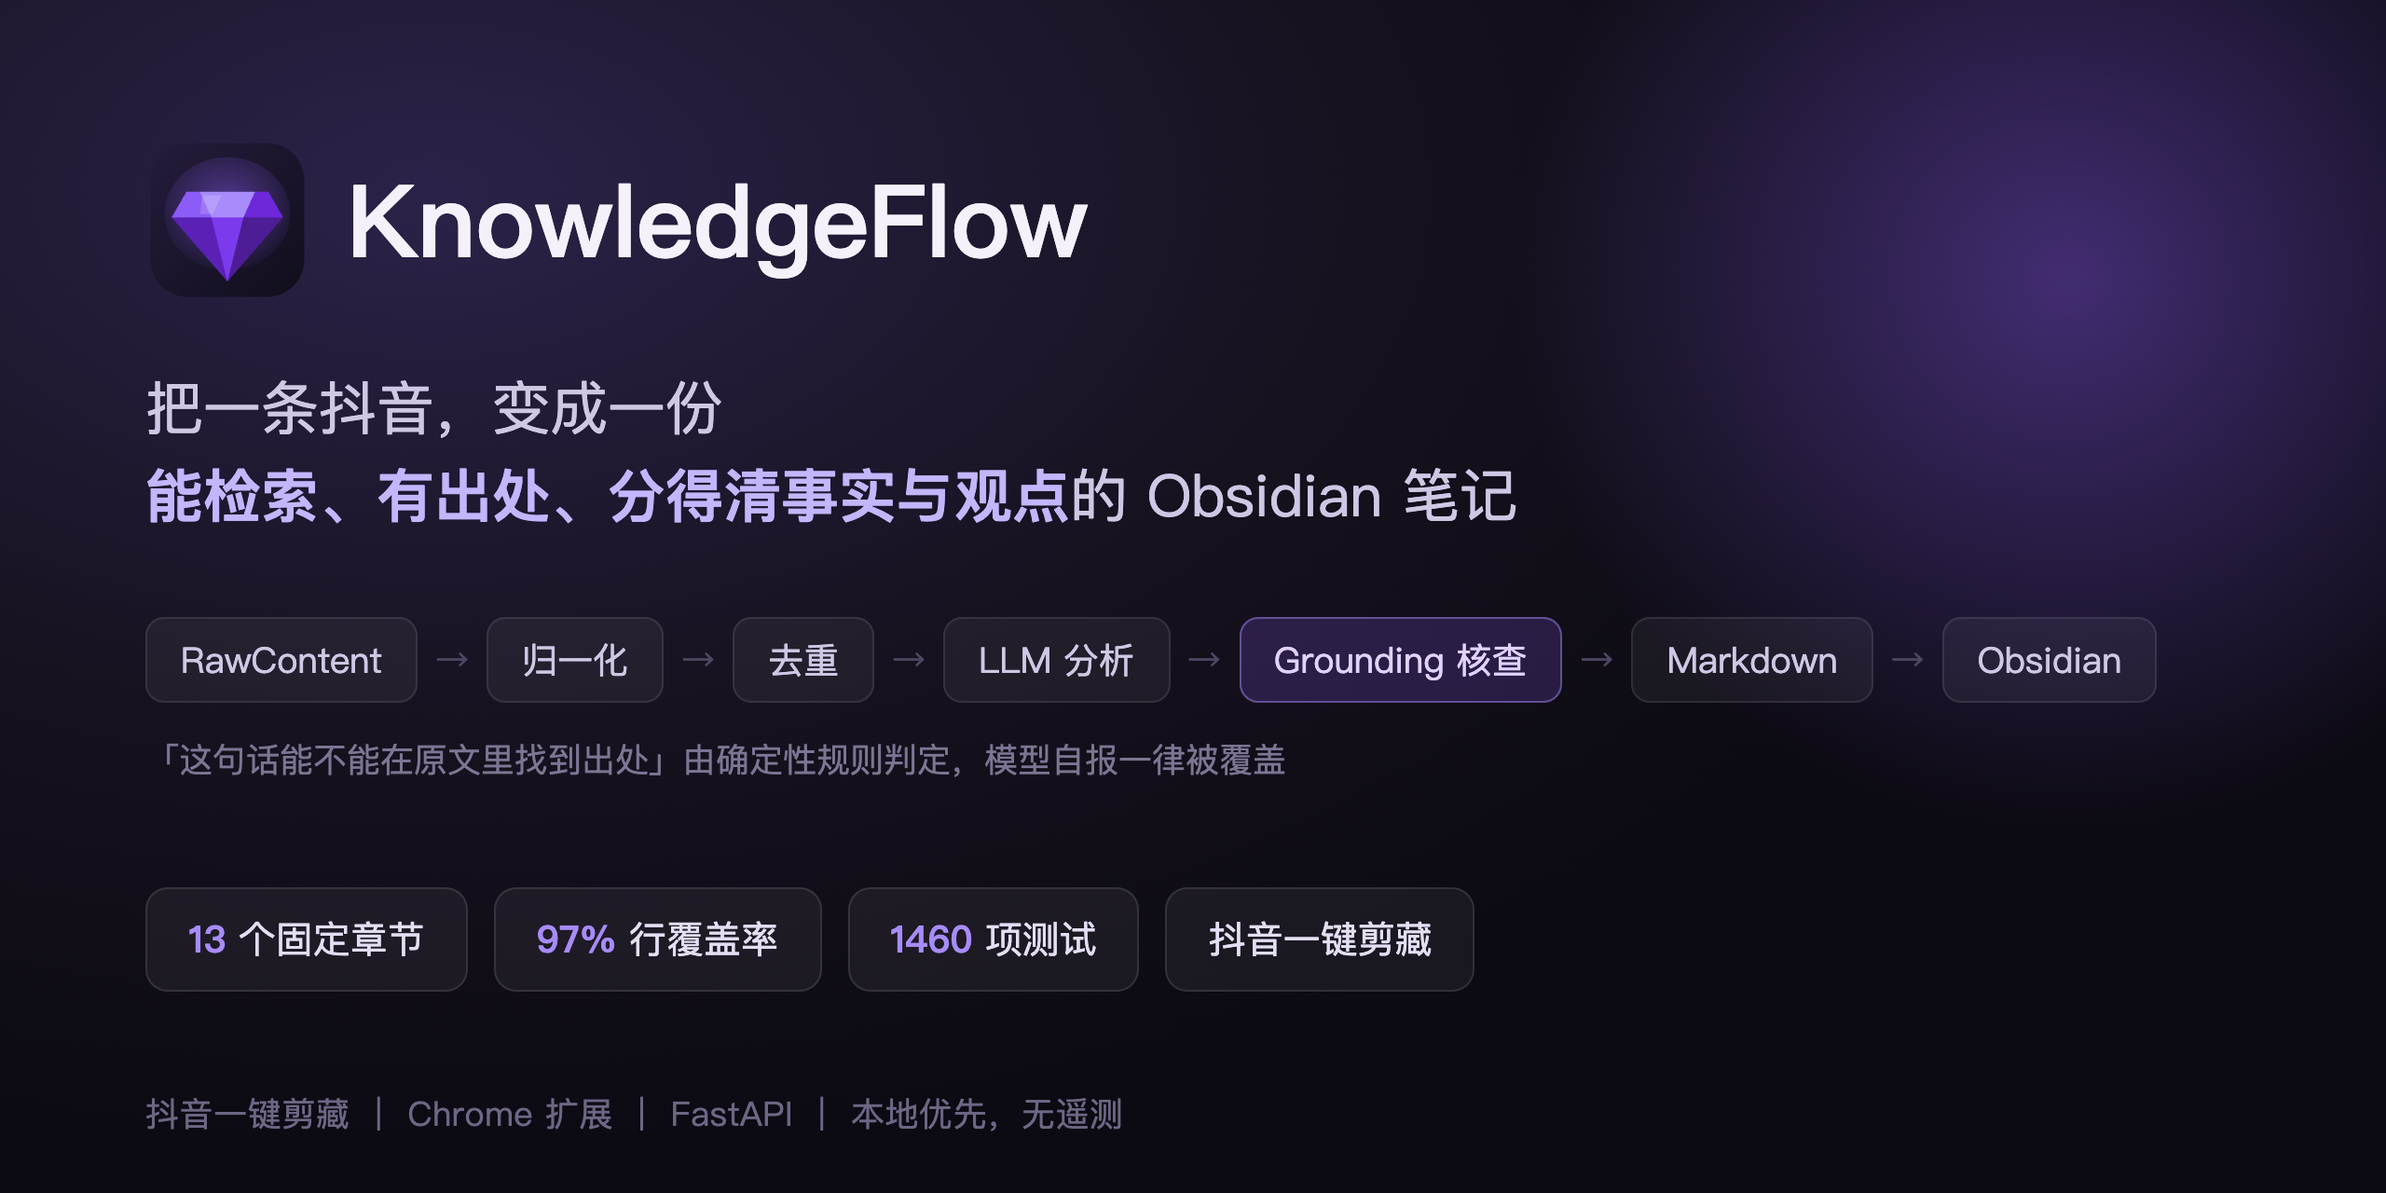
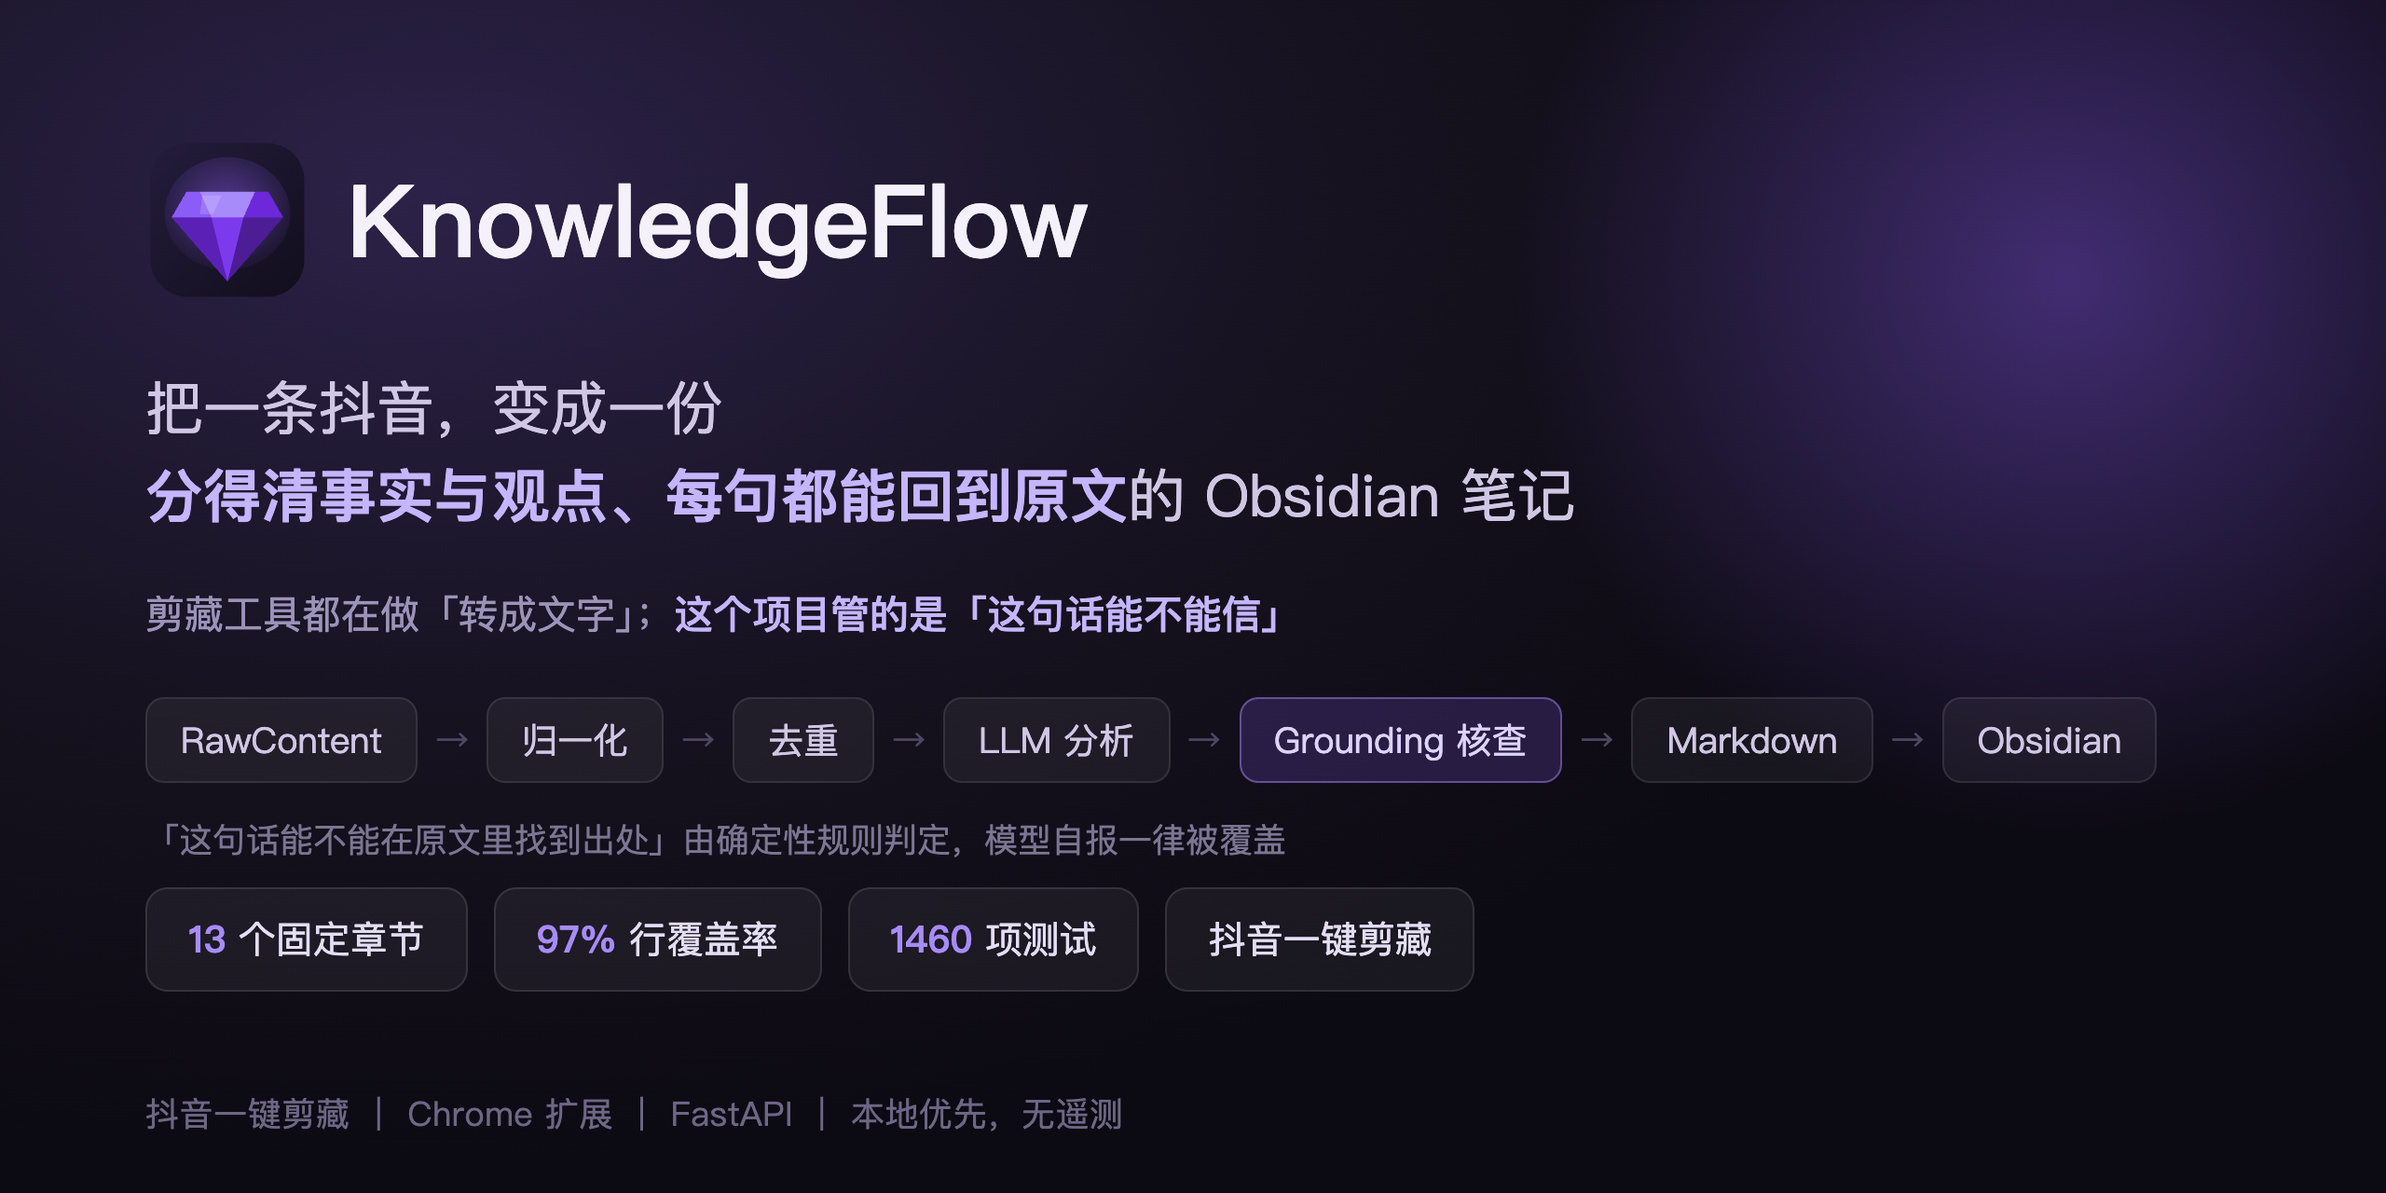
定位转向「可信度」：首屏、主图、社交卡统一改口径
按竞品实测结论调整（那批同类工具都在做「转成文字」，无一解决出处核查）：
- README 首屏：从「一条抖音 → 一份笔记」（比功能量）改成「别让模型替你做判断」
- 主图重排：标题换成定位句，底部三张卡改为「分类是标注、出处才是判定」/
  「找不到出处的不会被混进结论」/「这些规则有测试钉死」
- 社交卡补一句差异声明，措辞与主图统一
- 英文 TL;DR 同步（说清与 clipper 的区别在哪）
- 删掉硬裁出来的方形版（流程链被切断、下半空，这种图不能发）

diff --git a/docs/images/src/pipeline.html b/docs/images/src/pipeline.html
@@ -2,24 +2,27 @@
 <html lang="zh-CN">
 <head>
 <meta charset="utf-8">
-<!-- README 主图：左边「进来的是什么」，右边「出去的是什么」，底部三条差异点。
-     全部使用**虚构**博主与文案 —— 真实短视频标题/作者名不进公开仓库。 -->
+<!-- README 主图。定位打的是「可信度」而不是「搬运」：
+     别的剪藏工具把视频变成文字，这里多做一步 —— 分清哪句能信。
+     全部使用**虚构**博主与文案，真实短视频标题/作者名不进公开仓库。 -->
 <style>
   * { margin: 0; padding: 0; box-sizing: border-box; }
   body {
     width: 1600px; height: 900px; overflow: hidden;
     font-family: -apple-system, "PingFang SC", "Helvetica Neue", sans-serif;
     background: radial-gradient(1200px 760px at 50% -12%, #241D3C 0%, #14111D 58%, #0C0A12 100%);
-    color: #EFEBF8; padding: 50px 58px 38px; display: flex; flex-direction: column;
+    color: #EFEBF8; padding: 46px 58px 34px; display: flex; flex-direction: column;
   }
-  h1 { font-size: 34px; font-weight: 600; letter-spacing: -.3px; }
-  h1 span { color: #6E6884; font-weight: 400; margin: 0 6px; }
-  .sub { margin-top: 10px; font-size: 18px; color: #968EAE; }
+  h1 { font-size: 40px; font-weight: 600; letter-spacing: -.5px; }
+  h1 em { color: #C4B5FD; font-style: normal; }
+  .sub { margin-top: 14px; font-size: 19px; color: #B9B1CE; }
+  .kicker { margin-top: 10px; font-size: 16px; color: #7C7593; }
+  .kicker b { color: #A78BFA; font-weight: 500; }
 
-  .stage { display: grid; grid-template-columns: 1fr 116px 1.12fr; gap: 26px; height: 512px; margin-top: 30px; }
+  .stage { display: grid; grid-template-columns: 1fr 112px 1.12fr; gap: 24px; height: 452px; margin-top: 26px; }
 
   .card {
-    border-radius: 18px; padding: 26px 28px;
+    border-radius: 18px; padding: 24px 26px;
     background: rgba(255,255,255,.045); border: 1px solid rgba(255,255,255,.10);
     display: flex; flex-direction: column; overflow: hidden;
   }
@@ -29,61 +32,62 @@
 
   /* 左：输入 */
   .share {
-    margin-top: 18px; padding: 18px 20px; border-radius: 12px;
+    margin-top: 16px; padding: 16px 18px; border-radius: 12px;
     background: rgba(0,0,0,.32); border: 1px solid rgba(255,255,255,.08);
-    font-size: 19px; line-height: 1.6; color: #D8D2E8;
+    font-size: 18px; line-height: 1.58; color: #D8D2E8;
   }
   .share .hash { color: #7DA2F0; }
   .share .link { color: #8B5CF6; }
-  .share .tail { color: #665F7C; font-size: 16px; }
-  .steps { margin-top: 20px; display: flex; flex-direction: column; gap: 13px; }
-  .step { display: flex; gap: 12px; font-size: 17px; color: #B9B1CE; line-height: 1.45; }
+  .share .tail { color: #665F7C; font-size: 15px; }
+  .steps { margin-top: 16px; display: flex; flex-direction: column; gap: 11px; }
+  .step { display: flex; gap: 11px; font-size: 16px; color: #B9B1CE; line-height: 1.4; }
   .step .no {
-    flex: none; width: 22px; height: 22px; border-radius: 6px; margin-top: 1px;
+    flex: none; width: 21px; height: 21px; border-radius: 6px; margin-top: 1px;
     background: rgba(139,92,246,.16); color: #A78BFA;
-    font-size: 13px; font-family: ui-monospace, Menlo, monospace;
+    font-size: 12.5px; font-family: ui-monospace, Menlo, monospace;
     display: flex; align-items: center; justify-content: center;
   }
   .step.warn { color: #8B84A6; }
 
   /* 中：箭头 */
-  .arrow { display: flex; flex-direction: column; align-items: center; justify-content: center; gap: 14px; }
-  .arrow svg { width: 76px; height: 30px; }
-  .arrow .label { font-size: 13.5px; color: #8B84A6; text-align: center; line-height: 1.6; }
+  .arrow { display: flex; flex-direction: column; align-items: center; justify-content: center; gap: 13px; }
+  .arrow svg { width: 72px; height: 28px; }
+  .arrow .label { font-size: 13px; color: #8B84A6; text-align: center; line-height: 1.6; }
 
   /* 右：输出 */
-  .fm {
-    margin-top: 18px; padding: 15px 18px; border-radius: 12px;
-    background: rgba(0,0,0,.32); border: 1px solid rgba(255,255,255,.08);
-    font-family: ui-monospace, Menlo, monospace; font-size: 14.5px; line-height: 1.72; color: #9C93B8;
-  }
-  .fm .k { color: #7F79A0; }
-  .fm .v { color: #CFC7E4; }
-  .fm .hl { color: #C4B5FD; }
-  .secs { margin-top: 18px; display: flex; flex-direction: column; gap: 9px; }
+  .secs { margin-top: 16px; display: flex; flex-direction: column; gap: 10px; }
   .sec { display: flex; gap: 11px; font-size: 17px; color: #CFC7E4; }
-  .sec .no { flex: none; width: 20px; color: #5F5878; font-size: 13px; font-family: ui-monospace, Menlo, monospace; padding-top: 2px; }
+  .sec .no { flex: none; width: 20px; color: #5F5878; font-size: 12.5px; font-family: ui-monospace, Menlo, monospace; padding-top: 2px; }
   .sec em { color: #A78BFA; font-style: normal; }
-  .pill { margin-left: 7px; padding: 1px 9px; border-radius: 6px; font-size: 13px; background: rgba(139,92,246,.18); color: #C4B5FD; }
+  .sec.hi { color: #EFEBF8; }
+  .sec.hi em { color: #C4B5FD; }
+  .pill { margin-left: 7px; padding: 1px 9px; border-radius: 6px; font-size: 12.5px; background: rgba(139,92,246,.18); color: #C4B5FD; }
+  .quote {
+    margin-top: auto; padding: 14px 18px; border-left: 3px solid #8B5CF6;
+    background: rgba(139,92,246,.09); border-radius: 0 10px 10px 0;
+    font-size: 15.5px; line-height: 1.65; color: #B9B1CE;
+  }
+  .quote b { color: #DDD6F3; font-weight: 500; }
 
-  /* 底部：三条差异点 */
-  .strip { display: grid; grid-template-columns: repeat(3, 1fr); gap: 22px; margin-top: 24px; height: 148px; }
+  /* 底部：三个机制 */
+  .strip { display: grid; grid-template-columns: repeat(3, 1fr); gap: 20px; margin-top: 22px; height: 136px; }
   .mini {
-    border-radius: 14px; padding: 20px 22px;
+    border-radius: 14px; padding: 18px 20px;
     background: rgba(255,255,255,.035); border: 1px solid rgba(255,255,255,.085);
   }
-  .mini h3 { font-size: 18px; font-weight: 600; color: #DDD6F3; display: flex; align-items: center; gap: 9px; }
+  .mini h3 { font-size: 17.5px; font-weight: 600; color: #DDD6F3; display: flex; align-items: center; gap: 9px; }
   .mini h3::before { content: ""; width: 7px; height: 7px; border-radius: 2px; background: #8B5CF6; }
-  .mini p { margin-top: 11px; font-size: 15.5px; line-height: 1.65; color: #968EAE; }
+  .mini p { margin-top: 10px; font-size: 15px; line-height: 1.62; color: #968EAE; }
   .mini code {
-    font-family: ui-monospace, Menlo, monospace; font-size: 14px;
+    font-family: ui-monospace, Menlo, monospace; font-size: 13.5px;
     background: rgba(255,255,255,.07); padding: 1px 7px; border-radius: 5px; color: #C4B5FD;
   }
 </style>
 </head>
 <body>
-  <h1>一条抖音 <span>→</span> 一份笔记</h1>
-  <div class="sub">输入是不值得整理的碎片，输出是能检索、有出处的知识资产</div>
+  <h1>别让模型替你做判断</h1>
+  <div class="sub">一条抖音进来，出去的是<em style="color:#C4B5FD;font-style:normal">分得清事实与观点、每句都能回到原文</em>的 Obsidian 笔记</div>
+  <div class="kicker">剪藏工具都在做「转成文字」；这个项目管的是<b>「这句话能不能信」</b></div>
 
   <div class="stage">
     <!-- 输入 -->
@@ -105,45 +109,43 @@
 
     <!-- 箭头 -->
     <div class="arrow">
-      <svg viewBox="0 0 76 30" fill="none">
-        <path d="M2 15h58" stroke="#5F5878" stroke-width="2.5" stroke-linecap="round"/>
-        <path d="M54 6l14 9-14 9" stroke="#8B5CF6" stroke-width="2.5" stroke-linecap="round" stroke-linejoin="round"/>
+      <svg viewBox="0 0 72 28" fill="none">
+        <path d="M2 14h56" stroke="#5F5878" stroke-width="2.5" stroke-linecap="round"/>
+        <path d="M52 5l14 9-14 9" stroke="#8B5CF6" stroke-width="2.5" stroke-linecap="round" stroke-linejoin="round"/>
       </svg>
-      <div class="label">LLM 分析<br>+ 规则核查</div>
+      <div class="label">LLM 分类<br>+ 规则核查</div>
     </div>
 
     <!-- 输出 -->
     <div class="card">
-      <div class="card-head"><span class="dot out"></span> 输出 · Obsidian 笔记</div>
-      <div class="fm">
-        <span class="k">title:</span> <span class="v">15 分钟备好一周午餐：一份可执行的备菜流程</span><br>
-        <span class="k">source:</span> <span class="v">douyin</span> &nbsp; <span class="k">source_id:</span> <span class="v">'7xxxxxxxxxxxxxxxxxx'</span><br>
-        <span class="k">author:</span> <span class="v">林小满</span> &nbsp; <span class="k">analysis_type:</span> <span class="v">opinion</span><br>
-        <span class="k">topics:</span> <span class="hl">[备菜, 打工族午餐, 时间管理]</span>
-      </div>
+      <div class="card-head"><span class="dot out"></span> 输出 · Obsidian 笔记（13 个固定章节）</div>
       <div class="secs">
         <div class="sec"><span class="no">01</span><span>摘要</span></div>
-        <div class="sec"><span class="no">02</span><span>核心观点 <em>· 按类型标注</em><span class="pill">事实 / 观点 / 推论 / 预测</span></span></div>
-        <div class="sec"><span class="no">03</span><span>事实 · 作者观点 · 推论 · 预测 <em>· 各带原文引用与置信度</em></span></div>
-        <div class="sec"><span class="no">04</span><span>未验证信息 <em>· 在原文里找不到出处的单列在这里</em></span></div>
-        <div class="sec"><span class="no">05</span><span>相关实体 <em>[[双链]]</em> ｜ 相关知识 <em>[[双链]]</em></span></div>
-        <div class="sec"><span class="no">06</span><span>原始内容 · Transcript · OCR</span></div>
+        <div class="sec hi"><span class="no">02</span><span>核心观点 <em>· 按类型标注</em><span class="pill">事实 / 观点 / 推论 / 预测</span></span></div>
+        <div class="sec hi"><span class="no">03</span><span>每一类各带 <em>原文引用</em> 与置信度</span></div>
+        <div class="sec hi"><span class="no">04</span><span>未验证信息 <em>· 找不到出处的单列在这里</em></span></div>
+        <div class="sec"><span class="no">05</span><span>值得进一步研究</span></div>
+        <div class="sec"><span class="no">06</span><span>相关实体 <em>[[双链]]</em> ｜ 相关知识 <em>[[双链]]</em></span></div>
+      </div>
+      <div class="quote">
+        <b>「这句话能不能在原文里找到出处」由确定性规则判定</b>，<br>
+        模型自报的结果一律被规则覆盖 —— 于是每条结论都带得回原文。
       </div>
     </div>
   </div>
 
   <div class="strip">
     <div class="mini">
-      <h3>事实与观点分开</h3>
-      <p>「这句话在原文里能不能找到出处」由<b>确定性规则</b>判定，模型自报的结果一律被覆盖。</p>
+      <h3>分类是标注，出处才是判定</h3>
+      <p>是"事实"还是"作者预测"，模型只负责<b>标注</b>；能不能在原文里找到支持，由规则说了算。</p>
     </div>
     <div class="mini">
-      <h3>判重靠身份，不靠 URL</h3>
-      <p>去重身份是 <code>(source, source_id)</code> —— 同一条视频短链每次分享都不同，也不会重复处理。</p>
+      <h3>找不到出处的不会被混进结论</h3>
+      <p>没有原文支撑的 claim 单列进「未验证信息」一节，而不是悄悄混进摘要里。</p>
     </div>
     <div class="mini">
-      <h3>零网络的测试套件</h3>
-      <p>1460 项测试全程用 Mock LLM 与 MockTransport，行覆盖率 97%，有 90% 下限守卫。</p>
+      <h3>这些规则有测试钉死</h3>
+      <p>1466 项测试 / 行覆盖率 97%，全程离线跑（Mock LLM），每条规则都有正反用例。</p>
     </div>
   </div>
 </body>

diff --git a/docs/images/src/social-preview.html b/docs/images/src/social-preview.html
@@ -41,7 +41,10 @@
   }
 
   /* 中间：主链路的流程链，用来把版面撑起来（顺便说明架构） */
-  .chain { margin-top: 42px; display: flex; align-items: center; flex-wrap: wrap; gap: 10px; }
+  .kicker { margin-top: 26px; font-size: 21px; color: #9C93B8; }
+  .kicker b { color: #C4B5FD; font-weight: 500; }
+
+  .chain { margin-top: 30px; display: flex; align-items: center; flex-wrap: wrap; gap: 10px; }
   .node {
     padding: 9px 18px; border-radius: 10px; font-size: 19px;
     background: rgba(255,255,255,.05); border: 1px solid rgba(255,255,255,.09);
@@ -81,8 +84,10 @@
 
   <div class="pitch">
     把一条抖音，变成一份<br>
-    <b>能检索、有出处、分得清事实与观点</b>的 Obsidian 笔记
+    <b>分得清事实与观点、每句都能回到原文</b>的 Obsidian 笔记
   </div>
+
+  <div class="kicker">剪藏工具都在做「转成文字」；<b>这个项目管的是「这句话能不能信」</b></div>
 
   <div class="chain">
     <span class="node">RawContent</span><span class="sep">→</span>

diff --git a/README.md b/README.md
@@ -5,19 +5,25 @@
 ![python](https://img.shields.io/badge/python-3.11%2B-blue)
 ![license](https://img.shields.io/badge/license-MIT-green)
 
-![一条抖音 → 一份笔记](docs/images/pipeline.png)
+![别让模型替你做判断](docs/images/pipeline.png)
 
-**把互联网上的碎片信息，变成结构化、可检索、带出处的 Obsidian 知识资产。**
+**别让模型替你做判断。**
+
+剪藏工具都在做「把内容转成文字」；这个项目多做一步：**分清哪句是事实、哪句是作者的观点或预测，
+以及这句话在原文里到底有没有出处** —— 而且「有没有出处」不由模型自己说了算。
 
 给一条抖音链接、一段手贴的文案、或者一个本地音视频文件，拿回一份**固定 13 个章节**的
 Obsidian 笔记：摘要 / 核心观点（分事实·观点·推论·预测）/ 原文引用 / 未验证信息 /
 相关实体与主题双链 / 全文逐字稿 ……
 
 > **English TL;DR** — KnowledgeFlow turns short-video links, pasted text, and local
-> media files into structured, citation-grounded Obsidian notes: an LLM pipeline with
-> rule-based grounding checks, deterministic deduplication, and a Chrome extension for
-> one-click clipping. Docs are in Chinese; code, tests and comments are written to be
-> readable either way. **For personal / research use only.**
+> media files into structured Obsidian notes. What makes it different from a clipper:
+> whether a statement can actually be traced back to the source is decided by
+> **deterministic rules, not by the model's own say-so** — so every claim carries a
+> quote, and unsupported ones get their own section instead of being blended into the
+> summary. An LLM pipeline with rule-based grounding checks, deterministic dedup,
+> and a Chrome extension. Docs are in Chinese; code and tests read either way.
+> **For personal / research use only.**
 
 ---
 

diff --git a/docs/images/README.md b/docs/images/README.md
@@ -9,6 +9,9 @@ README 与 GitHub 社交卡片用的图。**全部使用虚构示例数据** —
 | `web-ui-ingest.png` / `web-ui-library.png` | README「界面」段：Web 界面与内容库 |
 | `extension-popup.png` | README「界面」段：Chrome 扩展面板 |
 | `social-preview.png` | **不**在 README 里。上传到仓库 Settings → Social preview（1280×640），决定分享到微信/飞书/X 时那张卡片的缩略图 |
+
+> 注意：这张是 **16:9 横版**，为 GitHub 社交卡而设计。要给小红书用（3:4 竖版）
+> **不能直接裁** —— 流程链会被切断。需要另做一版竖向排版。
 | `src/*.html` | 前两张的**设计源**（改文案/配色改这里，再重新渲染） |
 
 ## 重新生成
